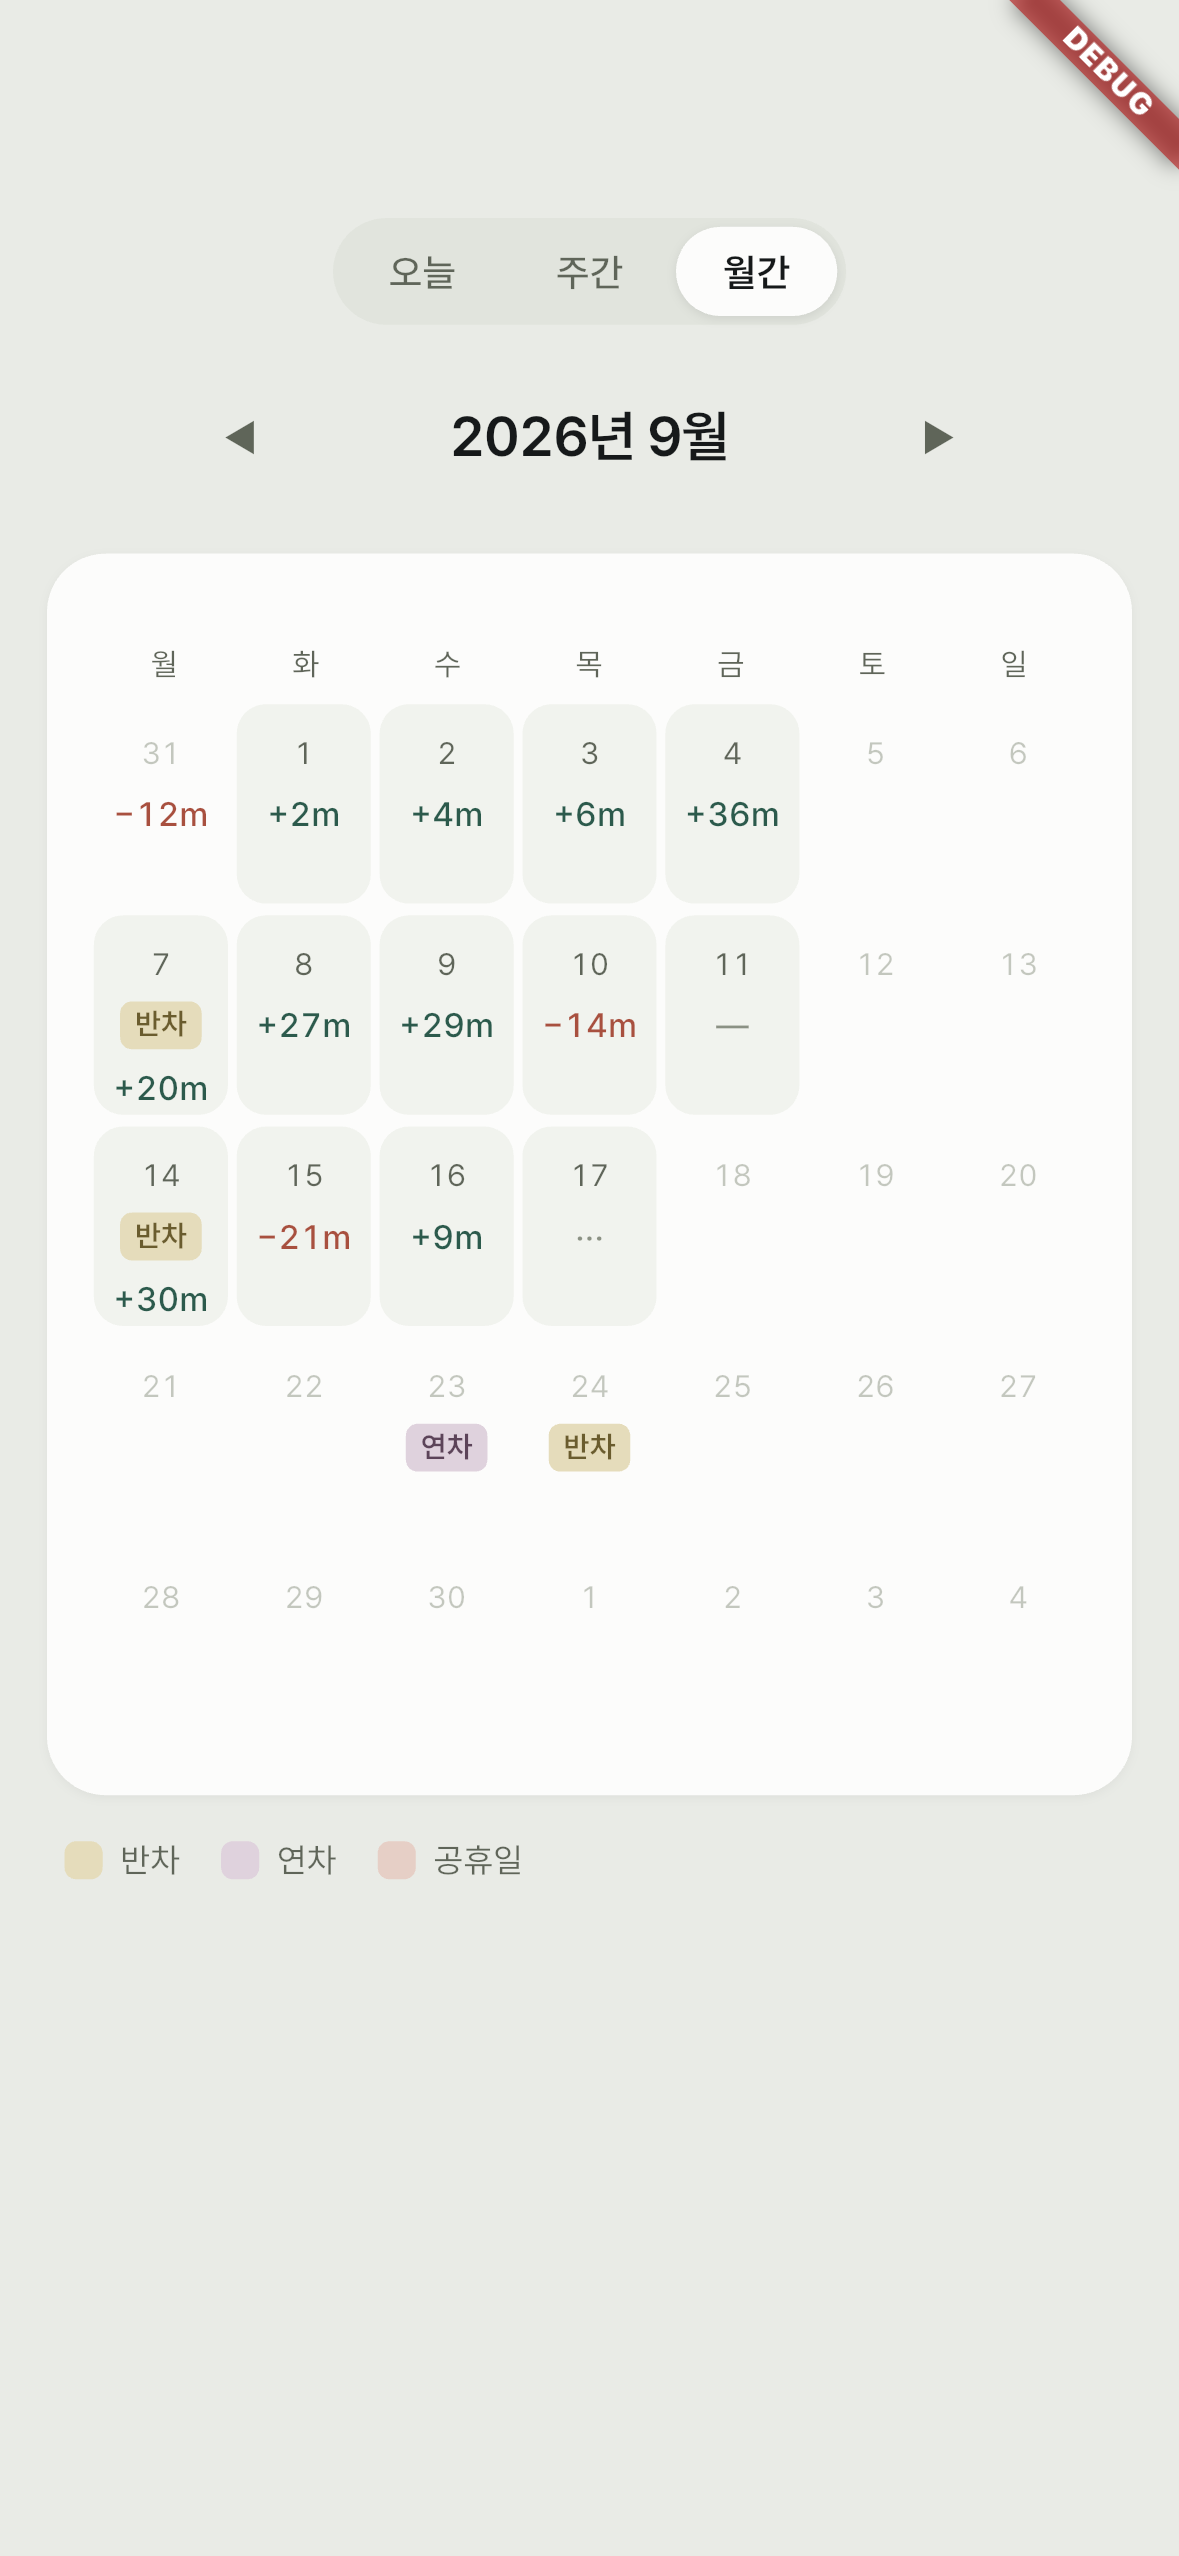
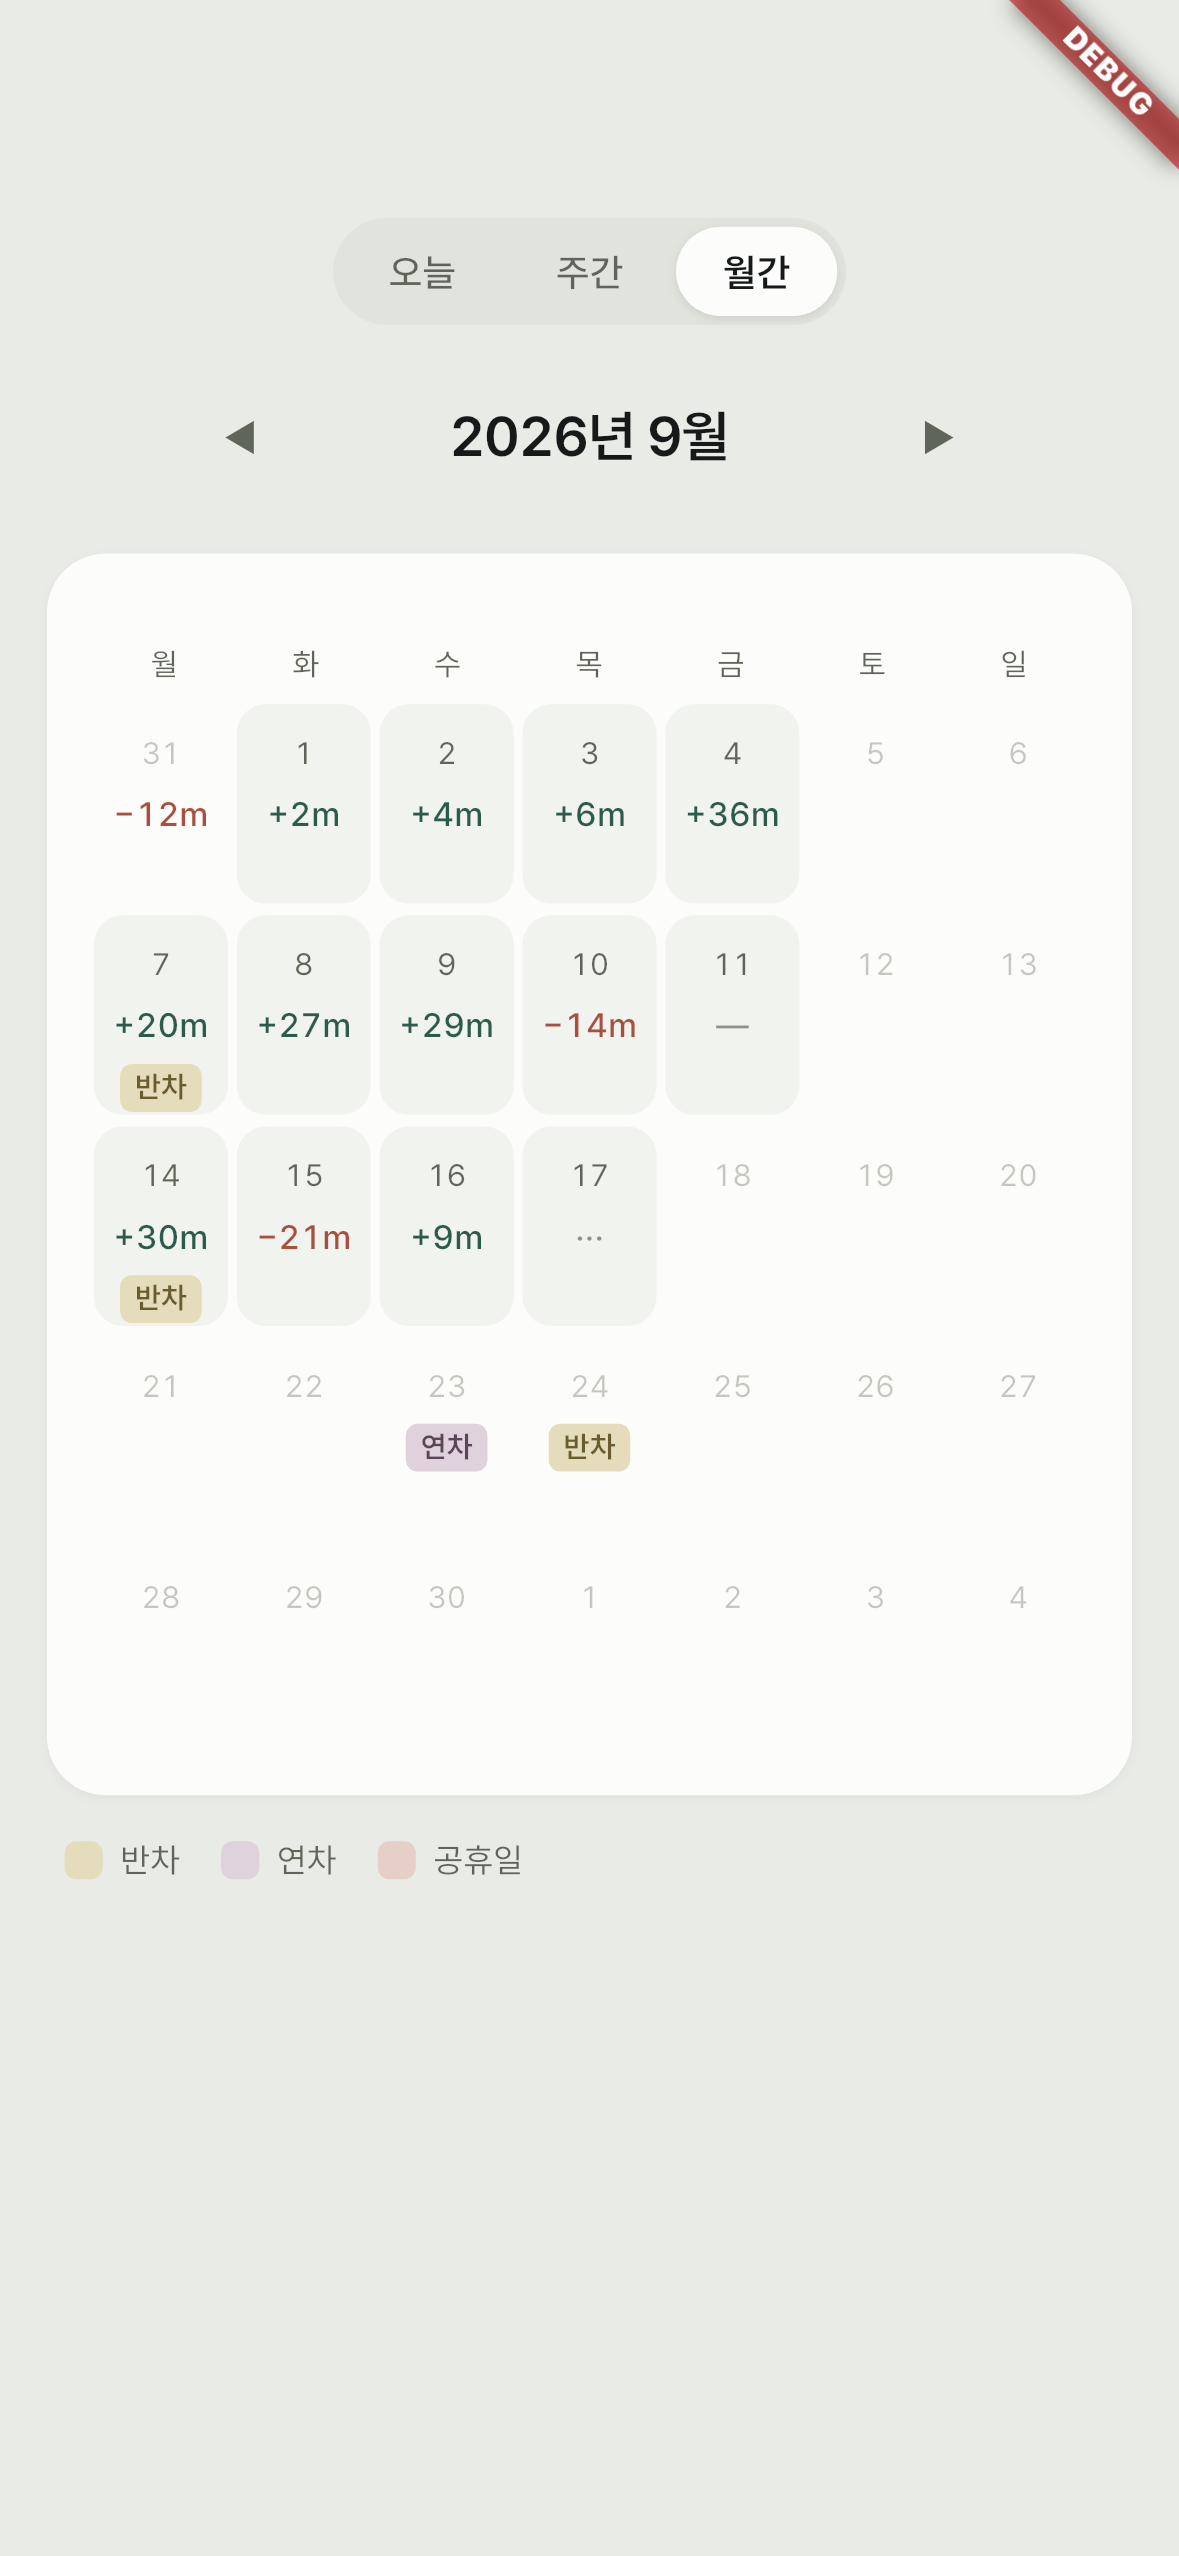
월간 반차 셀은 값 먼저·배지 아래, 오늘 안내·시트·다이얼로그 글자 키움
- 반차: 기준 대비 값을 일반 날과 같은 자리에 두고 배지를 그 아래로. 연차·공휴일은 그대로.
- 실기기에서 작게 느껴진 오늘 요약 라벨·안내, 시트 안내·계산 내역, 확인 다이얼로그를 1~1.5 상향.

Changed region(s): [[0.0916, 0.4636, 0.1832, 0.5254], [0.0916, 0.3709, 0.1832, 0.4327]]

diff --git a/lib/ui/app_text_styles.dart b/lib/ui/app_text_styles.dart
@@ -4,6 +4,7 @@ import '../core/presentation/size_config.dart';
 import 'app_colors.dart';
 
 /// 디자인 핸드오프 Typography 표. letter-spacing은 em → px 환산.
+/// 오늘 요약 라벨·안내, 시트 안내·계산 내역, 확인 다이얼로그는 실기기에서 작게 느껴져 핸드오프보다 1~1.5 키웠다.
 abstract final class AppTextStyles {
   static const fontFamily = 'Pretendard';
 
@@ -35,20 +36,20 @@ abstract final class AppTextStyles {
   /// 근무 중 "09:12 출근"
   static TextStyle get statusClock => _style(20, FontWeight.w600, letterSpacingEm: -0.02);
   static TextStyle get summaryValue => _style(14.5, FontWeight.w600, letterSpacingEm: -0.01);
-  static TextStyle get summaryLabel => _style(11, FontWeight.w400, color: AppColors.subtle);
+  static TextStyle get summaryLabel => _style(12.5, FontWeight.w400, color: AppColors.subtle);
   static TextStyle get tabSelected => _style(13, FontWeight.w600);
   static TextStyle get tabUnselected => _style(13, FontWeight.w500, color: AppColors.subtle);
-  static TextStyle get body => _style(13.5, FontWeight.w400, color: AppColors.subtle);
-  static TextStyle get bodyInk => _style(13.5, FontWeight.w400);
-  static TextStyle get bodyParagraph => _style(13.5, FontWeight.w400, height: 1.55, color: AppColors.subtle);
+  static TextStyle get body => _style(14.5, FontWeight.w400, color: AppColors.subtle);
+  static TextStyle get bodyInk => _style(14.5, FontWeight.w400);
+  static TextStyle get bodyParagraph => _style(14.5, FontWeight.w400, height: 1.55, color: AppColors.subtle);
   static TextStyle get label => _style(13, FontWeight.w500, color: AppColors.subtle);
-  static TextStyle get reason => _style(13, FontWeight.w400, color: AppColors.subtle);
-  static TextStyle get caption => _style(12.5, FontWeight.w400, color: AppColors.subtle);
-  static TextStyle get captionMedium => _style(12.5, FontWeight.w500, color: AppColors.subtle);
-  static TextStyle get captionParagraph => _style(12.5, FontWeight.w400, height: 1.55, color: AppColors.subtle);
-  static TextStyle get link => _style(12.5, FontWeight.w400, color: AppColors.subtle,)
+  static TextStyle get reason => _style(13.5, FontWeight.w400, color: AppColors.subtle);
+  static TextStyle get caption => _style(13.5, FontWeight.w400, color: AppColors.subtle);
+  static TextStyle get captionMedium => _style(13.5, FontWeight.w500, color: AppColors.subtle);
+  static TextStyle get captionParagraph => _style(13.5, FontWeight.w400, height: 1.55, color: AppColors.subtle);
+  static TextStyle get link => _style(13.5, FontWeight.w400, color: AppColors.subtle,)
       .copyWith(decoration: TextDecoration.underline, decorationColor: AppColors.subtle);
-  static TextStyle get linkBrand => _style(12.5, FontWeight.w600, color: AppColors.brand)
+  static TextStyle get linkBrand => _style(13.5, FontWeight.w600, color: AppColors.brand)
       .copyWith(decoration: TextDecoration.underline, decorationColor: AppColors.brand);
   static TextStyle get badge => _style(12.5, FontWeight.w600);
 
@@ -86,7 +87,7 @@ abstract final class AppTextStyles {
 
   // 시간 수정 시트
   static TextStyle get sheetTitle => _style(16, FontWeight.w600, letterSpacingEm: -0.01);
-  static TextStyle get sheetNote => _style(11.5, FontWeight.w400, height: 1.5, color: AppColors.subtle);
+  static TextStyle get sheetNote => _style(12.5, FontWeight.w400, height: 1.5, color: AppColors.subtle);
   static TextStyle chip({required bool selected, required Color selectedColor}) =>
       _style(12.5, selected ? FontWeight.w600 : FontWeight.w500, color: selected ? selectedColor : AppColors.subtle);
   static TextStyle get timeLabel => _style(13, FontWeight.w400, color: AppColors.subtle);
@@ -101,18 +102,18 @@ abstract final class AppTextStyles {
   static TextStyle get wheelItem =>
       _style(20, FontWeight.w500, letterSpacingEm: -0.02, color: AppColors.wheelUnselected);
   static TextStyle get wheelColon => _style(20, FontWeight.w600);
-  static TextStyle get calcRow => _style(12.5, FontWeight.w400, height: 1.9);
-  static TextStyle get calcValue => _style(12.5, FontWeight.w500, height: 1.9);
-  static TextStyle get calcNote => _style(11.5, FontWeight.w400, height: 1.9, color: AppColors.subtle);
-  static TextStyle get calcSum => _style(12.5, FontWeight.w500, height: 1.9, color: AppColors.brand);
-  static TextStyle get calcError => _style(12.5, FontWeight.w500, height: 1.9, color: AppColors.minus);
+  static TextStyle get calcRow => _style(13.5, FontWeight.w400, height: 1.9);
+  static TextStyle get calcValue => _style(13.5, FontWeight.w500, height: 1.9);
+  static TextStyle get calcNote => _style(12.5, FontWeight.w400, height: 1.9, color: AppColors.subtle);
+  static TextStyle get calcSum => _style(13.5, FontWeight.w500, height: 1.9, color: AppColors.brand);
+  static TextStyle get calcError => _style(13.5, FontWeight.w500, height: 1.9, color: AppColors.minus);
   static TextStyle get sheetButtonPrimary => _style(15, FontWeight.w600, color: AppColors.onBrand);
   static TextStyle get sheetButtonSecondary => _style(15, FontWeight.w600, color: AppColors.subtle);
-  static TextStyle get deleteLink => _style(12.5, FontWeight.w400, color: AppColors.subtle);
+  static TextStyle get deleteLink => _style(13.5, FontWeight.w400, color: AppColors.subtle);
 
   // 확인 다이얼로그
-  static TextStyle get dialogTitle => _style(15, FontWeight.w600);
-  static TextStyle get dialogMessage => _style(13, FontWeight.w400, height: 1.5, color: AppColors.subtle);
+  static TextStyle get dialogTitle => _style(16, FontWeight.w600);
+  static TextStyle get dialogMessage => _style(14, FontWeight.w400, height: 1.5, color: AppColors.subtle);
 
   /// 반차 체크박스 라벨 (13.5)
   static TextStyle checkLabel({required bool checked}) => _style(

diff --git a/lib/presentation/month/widgets/calendar_card.dart b/lib/presentation/month/widgets/calendar_card.dart
@@ -1,5 +1,6 @@
 import 'package:flutter/material.dart';
 
+import '../../../domain/model/work_type.dart';
 import '../../../ui/app_colors.dart';
 import '../../../ui/app_decorations.dart';
 import '../../../ui/app_sizes.dart';
@@ -71,6 +72,22 @@ class _Cell extends StatefulWidget {
 class _CellState extends State<_Cell> {
   var _pressed = false;
 
+  Widget _badge(WorkType type) => Padding(
+        padding: EdgeInsets.only(top: AppSizes.calendarCellGap),
+        child: TypeTag(
+          type: type,
+          label: MonthTexts.badge(type),
+          padding: AppSizes.calendarBadgePadding,
+          radius: AppSizes.calendarBadgeRadius,
+          style: AppTextStyles.calendarBadge,
+        ),
+      );
+
+  Widget _value(String text, TextStyle style) => Padding(
+        padding: EdgeInsets.only(top: AppSizes.calendarCellGap),
+        child: Text(text, style: style, maxLines: 1, overflow: TextOverflow.clip, softWrap: false),
+      );
+
   @override
   Widget build(BuildContext context) {
     final cell = widget.cell;
@@ -107,22 +124,16 @@ class _CellState extends State<_Cell> {
             borderRadius: BorderRadius.circular(AppSizes.calendarCellRadius),
           ),
           // 세로 중앙 정렬 금지 — 값이 없는 날의 숫자가 내려와 같은 행과 어긋난다. 위 고정.
+          // 반차는 값이 일반 날과 같은 자리에 오고 배지가 그 아래. 연차·공휴일은 값이 없어 배지가 바로 온다.
           child: Column(
             children: [
               Text('${cell.date.day}', style: AppTextStyles.calendarNum(dim: dim)),
-              if (cell.type != null) ...[
-                SizedBox(height: AppSizes.calendarCellGap),
-                TypeTag(
-                  type: cell.type!,
-                  label: MonthTexts.badge(cell.type!),
-                  padding: AppSizes.calendarBadgePadding,
-                  radius: AppSizes.calendarBadgeRadius,
-                  style: AppTextStyles.calendarBadge,
-                ),
-              ],
-              if (text.isNotEmpty) ...[
-                SizedBox(height: AppSizes.calendarCellGap),
-                Text(text, style: valueStyle, maxLines: 1, overflow: TextOverflow.clip, softWrap: false),
+              if (cell.type == WorkType.halfDay) ...[
+                if (text.isNotEmpty) _value(text, valueStyle),
+                _badge(cell.type!),
+              ] else ...[
+                if (cell.type != null) _badge(cell.type!),
+                if (text.isNotEmpty) _value(text, valueStyle),
               ],
             ],
           ),

diff --git a/test/presentation/month_screen_test.dart b/test/presentation/month_screen_test.dart
@@ -24,7 +24,11 @@ void main() {
     addTearDown(tester.view.reset);
 
     final state = buildMonthState(
-      records: [rec(14, inH: 9, inM: 5, outH: 18, outM: 36), rec(15, type: WorkType.holiday)],
+      records: [
+        rec(14, inH: 9, inM: 5, outH: 18, outM: 36),
+        rec(15, type: WorkType.holiday),
+        rec(16, inH: 9, outH: 13, outM: 10, type: WorkType.halfDay),
+      ],
       firstRecordDate: DateTime(2026, 8, 20),
       now: d(16, 12),
       rules: rules,
@@ -50,6 +54,8 @@ void main() {
     expect(find.text('2026년 9월'), findsOneWidget);
     expect(find.text('+31m'), findsOneWidget);
     expect(find.text('공휴일'), findsNWidgets(2)); // 셀 배지 + 범례
+    // 반차는 값이 먼저(일반 날과 같은 자리), 배지가 그 아래
+    expect(tester.getTopLeft(find.text('+10m')).dy, lessThan(tester.getTopLeft(find.text('반차').first).dy));
     await tester.tap(find.text('+31m'));
     expect(tapped, d(14));
   });
